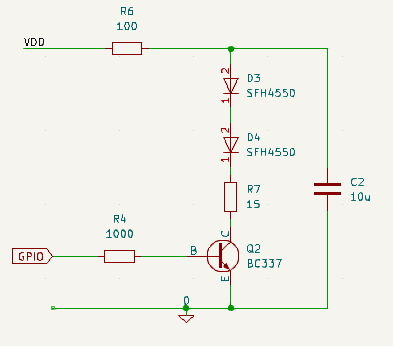
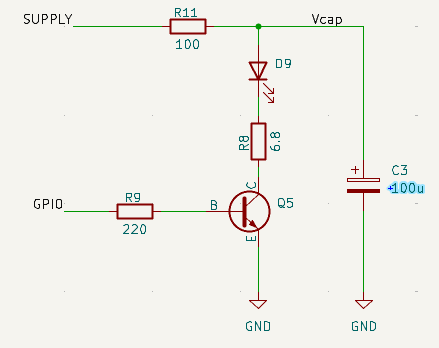
updated the section on the basic current regulator

diff --git a/docs/sensors/basic-constant-current-drive.md b/docs/sensors/basic-constant-current-drive.md
@@ -9,76 +9,114 @@ nav_order: 20
 # Basic Constant Current Drive for Sensor Emitters
 
 ## Conventional drive
-Normally, the micromouse sensors might use an arrangement like this, assuming we want to drive two LEDs at the same current from some supply voltage VDD
+
+In the section on [switched emitter driving](./switched-emitter-drive.md), one of the simplest working options looked like this:
+
 ![conventional emitter drive](../assets/sensors/conventional-drive.png)
+/// caption
+Basic Bipolar Switched Emitter
+///
 
-This might be the kind of configuration you would use in a half-size mouse with two LiPo cells. The LED current is probably a bit low for a classi mouse.
+This configuration, with an IR LED, would work well in a typical classic micromouse with a 5 Volt supply voltage. However, in a half-size mouse there may not be a 5 Volts supply and so the available headroom for the LED supply becomes marginal. So marginal that the use of a visible light LED like the TLCR5800 is probably not possible at more than a fairly low current.
 
-It should be clear that the actual current that will flow through the LEDs will depend upon the voltage at VDD. The storage capacitor can only charge to that voltage so output will vary with VDD. Designers will use a regulated supply for VDD to ensure it remains constant as the battery Voltage decays during a run. It is not uncommon to use a MOSFET or darlington device in place of Q2 so that the deviceacts as a simple switch always completely on or completely off.
+It is likely tempting to connect the LED supply directly to the battery to get a somewhat higher voltage. but that causes another issue. As the robot runs around, the battery voltage will constantly change and with it, the LED output. If the LED output varies, so will the detector reading, regardless of the walls. 
 
-### Constant current
-There are many ways to create a constant current drive so that the current through the LEDs is less dependent upon the value of VDD. Ideally, the current would be independent of VDD but, of course there will be some lower limit below which there will not be enough headroom to fully accommodate the forward voltage drop  of the LEDs. These circuits vary in their complexity and effectiveness. With space at a premium, builders want a simple solution wherever possible.
+What is needed is a way to keep the current through the LED constant even if the supply voltage changes.
+
+## Constant current
+There are many ways to create a constant current drive. Ideally, the current would be completely independent of VDD but, of course there will be some lower limit below which there will not be enough headroom to fully accommodate the forward voltage drop of the LEDs. These circuits vary in their complexity and effectiveness. With space at a premium, builders want a simple solution wherever possible.
 
 ## Simple Solution
-The resistor R7 in the previous circuit limits the current that can flow through the LEDs. It has no other purpose. Suppose, however, we place the current limit resistor on the emitter of the drive transistor. 
+The resistor R8 in the previous circuit limits the current that can flow through the LEDs. It has no other purpose. Suppose, however, we place the current limit resistor on the emitter of the drive transistor instead of between the collector and the LED. 
 
 ![current regulated circuit](../assets/sensors/current-regulated.png)
+/// caption
+Simplest Current Regulation
+///
 
-There are the same number of components and they have the same values but now the circuit behaviour is very different.
+There are the same number of components and they have the same values (Q5 is a BC337-40) but now the circuit behaviour is very different.
 
-As current flows through the LEDs, the voltage at the emitter of Q3 will rise. If it rises enough so that it is within 0.7 Volts or so of the base, the transistor will begin to turn off and the current will reduce. There is, then, negative feedback in the circuit and the current is now controlled only by the emitter resistor, not the supply voltage. 
+As current flows through the LEDs, the voltage at the emitter of Q5 will rise. If it rises enough so that it is within 0.7 Volts or so of the base, the transistor will begin to turn off and the current will reduce. There is, then, negative feedback in the circuit and the current is now controlled only by the emitter resistor, not the supply voltage. 
 
-In this example, suppose the GPIO output is 3.3 Volts. If the emitter of Q3 gets to about 2.6 Volts, the circuit should start to be stable. That corresponds to a current of around 173mA. In practice, some current will flow from GPIO, through the resistor R8 and out f the emitter. Not much current - less than 1 mA depending on the gain of the transistor. That means the base voltage would be more like 2.9 Volts because of the drop across R8 and the emitter would stabilise at about 2.2 Volts. The current through R10 would now be closer to 147 mA. Nearly all of that will have come from the collector of the transistor which means it must have flowed through the LEDs.
+In this example, suppose the GPIO output is 3.3 Volts. If the emitter of Q5 gets to about 2.6 Volts, the circuit should start to be stable. That corresponds to a current of around 2.6/6.8 = 382mA. In practice, some current will flow from GPIO, through the resistor R8 and out of the emitter. Not much current - less than 1 mA depending on the gain of the transistor. So the total emitter current will include the base current and the collector current will be a little less. Not by much though - less than 2% typically.
 
-So what? Well, notice that none of this reasoning has any mention of the supply Voltage. So long as there is enough supply voltage to provide the forward voltage drop of the LEDS, the voltage across the emitter resistor and a volt or so for linear transistor operation, the current will be constant.and independent of the supply voltage. Here, anything above about 6.5 Volts will be enough to ensure correct circuit behaviour. That is a convenient number because it is around the voltage that corresponds to a pair of depleted LiPo cells.
+The high current requirement, if it can be achieved, will need somewhat more than the typical, rule-of-thumb - value 0.7 Volts for $V_{BE}$. Probably more like 0.8V so the voltage across R8 will be around 2.5 Volts and the actual emitter current will be $2.5/6.8 = 360mA$. Combined with the base current and other transistor effects, the actual current achievable through the LED will be a little lower still.
+
+So what? Well, notice that none of this reasoning has any mention of the supply Voltage. So long as there is enough supply voltage to provide the forward voltage drop of the LEDS, the voltage across the emitter resistor and a volt or so for linear transistor operation, the current should be constant and independent of the supply voltage. Here, anything above about 6.5 Volts will be enough to ensure correct circuit behaviour. That is a convenient number because it is around the voltage that corresponds to a pair of depleted LiPo cells.
+
+In summary, leaving at least one volt to ensure the transistor can operate in its linear mode:
+
+$$
+V_{cap} > V_{LED} + I . R_E + V_{CE(sat)} + 1 Volt
+$$
+
+The extra 1 Volt ensures linear operation. Remember that the resistor R11 reduces the average voltage value on the capacitor depending on the pulse duty cycle so $V_{cap}$ is always somewhat less than $V_{supply}$.
+
 
 It should be clear that an attempt to increase the current by reducing the value of the emitter resistor will increase the voltage drop across the LEDs, reducing the available headroom. Even so, it should be possible to get more than 250mA through the LEDs with a 6.5 Volt supply and good pulse shapes. You can double that if you increase the value of the storage capacitor and are happy to accept a pulse that begins to decay rapidly.
 
+Note that, because the transistor is operating in its linear region, it will dissipate a little more power than when operated as a switch. With the example parameters - 328mA for 25us out of every 1000us - the average power dissipation would be around 6mW. Even if the emitter gets stuck on, the protection resistor, R11 keeps everything safely limited.
+
+
+
 ## Simulating the Circuit
-This circuit shows a more complete version for simulation:
 
- ![circuit for simulation](../assets/sensors/current-regulation-simulation.png)
+Running this circuit through the simulator shows that the voltage on the capacitor, $V_{cap}$ still takes just as long to get to a stable value but the LED current pulses stabilise well before that.
 
-- A voltage source driving the base to simulate a GPIO pin left high.
-- Two LEDs are run in series.
-- Overall current is limited by the 100$\Omega$ resistor in the supply line. 
-- Operating current for the emitter pulses will come from the storage capacitor C1.
+ ![Simulation Power Up Behaviour](../assets/sensors/basic-regulation-power-up.png)
+ /// caption
+ Basic Bipolar Regulation
+ ///
 
-## Fault behaviour
-In this state, we can perform an operating point analysis of the worst case current through the LEDs in case of a fault with a freshly charged battery and  the IO pin stuck high. I have reduced the base resistor to allow more current to flow into the transistor in case it has a low gain.
+The pulses stabilise as soon as the capacitor voltage is high enough to provide adequate regulation by the transistor. As little as 4.5 Volts on the capacitor is enough and, at all voltages above that, the pulse shape is the same. Here is one of the stable pulses.
 
-![DC Operating point](../assets/sensors/sensors-current-regulation-operating-point.png)
+![Single 328mA Pulse](../assets/sensors/basic-regulation-single-pulse-328ma.png)
+/// caption
+Single 328mA pulse from Basic Regulator
+///
 
-- The transistor will be hard on and saturated
-- The current through the LEDs will be limited to about 47mA. This is a safe level that will not damage the LEDs though it is probably still not eye-safe for IR LEDs.
-- The transistor emitter will be at about 0.76 Volts
-- $V_{BE}$ is 0.715 Volts
-- The current limit resistor, R3, is dropping 4.7 Volts
-- The GPIO port will need to output 3.9mA. This is well within the capabilities of the port.
-- The SFH4550 LEDs can tolerate 100mA continuous current flow. at which point their individual forward voltage is about 1.5 Volts. R3 could be reduced to perhaps 47 Ohms and stilll maintain safe operation 
+It is clear that there is no droop and the current pulse is nice and constant. The current rises to the same value as in the switched case but is now sustained throughout the pulse as the transistor compensates for any droop in the capacitor voltage.
 
-The simulator output is a little hard to follow because it places so many labels. 
+## Testing Compliance
 
-## Dynamic operation
-Normal operation is for the emitter to be pulsed on for a short period on every control cycle. Suppose we want a 30us pulse 2000 times per second. This is rather more than is normal but we want to design for the more demanding cases. Restoring the proper pulse activity of the IO pin, and setting the battery to a depleted level of only 6.5 Volts, gets us this circuit:
+Compliance is the ability of the circuit to provide a consistent current for a range of input voltages. The power-up data shown above imply that, as long as the supply voltage is greater than 4.5 Volts, regulation will be good. Just to illustrate the point, the simulation can be run again with the supply voltage set to 8.4 Volts, corresponding to a freshly charged 2S LiPo battery.
 
-![Simulating practical pulses](../assets/sensors/current-regulation-pulsed-simulation.png)
+ ![Simulation Power Up Behaviour - High Voltage](../assets/sensors/basic-regulation-higher-supply-voltage.png)
+ /// caption
+ Basic Regulation With Higher Supply Voltage
+ ///
 
-Let's have a look at a few of pulses emitted after the circuit has been operating for a few milliseconds - which is all it takes to reach steady state.
+Exactly as before, the pulses stabilise quickly at the same level and remain unaffected by the supply voltage.
 
-![Output Pulses at 6.5 Volts](../assets/sensors/current-regulation-results-6-volts.png)
+## Sources of error
 
-We get clean, regular pulses with a peak currrent of 157mA through both LEDs.
+This is **not** a *precision* current source. While it can compensate very well for variations in supply voltage, it is subject to some change in the $V_{BE}$ behaviour with temperature and it will be affected by the actual voltage available from the GPIO pin.
 
-Now see the difference when the supply voltage is 8.4 Volts from a fresh battery
+In fact, the LED current is proportional to the GPIO voltage. If, for example, the GPIO voltage is only 3 Volts, the voltage across R8 will be correspondingly lower and the LED current will be reduced. 
 
-![utput Pulses at 8.4 Volts](../assets/sensors/current-regulation-results-8-volts.png)
+However, during normal operation of the processor you can be quite confident that the GPIO voltage will be stable enough for the purposes of this circuit. If it does change, that would be a sign that there may be some other problem in the rest of the robot circuits.
 
-The current pulses are identical. The LEDs will be the same brightness across the range of voltages available from the battery.
+Also, remember that the calculations will refer to typical devices and individual parts are subject to the normal tolerances.
 
-The magnitude of the emitter pulse current will be affected by the transistor gain but transistors shoudl in any case be chosen for a narrow range of gains. In this example, you might selct a BC337-40 rather than any old BC337 from the parts bit so that the gain is between 250 and 630 (according to the data sheet) rather than the full available range of 100 to 630. For that more narrow range of transistor gains, you might expect the emitter current to range from 148mA to 160mA from one transistor to another.
+There are some modest sources of error or inaccuracy but overall, for its intended purpose, this circuit is a great improvement over a simple switched emitter. It makes for a simple solution to getting consistent and stable current pulses even with the use of unregulated supplies. In a micromouse robot, where the walls themselves can vary in reflectivity by several percent, it probably needs little or no improvement.
 
-Peak current into the base might be a few milliAmps for the very short time needed to charge any base capacitance but will typically be a few hundred microAmps during the pulse.
+When choosing a transistor for Q5, several types will do the job. Aim for something that can pass several hundred milliamps while still having a current gain of at least 100. The BC337-40 has proven reliable and is cheap and commonplace.
 
-## Other sources of error
-The entire scheme depends upon the GPIO output voltage being stable with a known value. The LED current is proportional to the GPIO voltage. That is, a 5% reduction in that voltage will cause about a  5% reduction in the LED current. Certainly, the load on the port will pull the voltage down a little. The assumption is that, with the entire system working in its steady state, any deviation of the GPIO voltage from its nominal 3.3 Volts will remain pretty steady since the processor supply is itself stabilised.
+## Other LED types
+
+All the calculations so far have been for  an IR LED like the SFH4550. If you wanted to use a high intensity visible type like TLCR5800, the only change will be the minimum supply voltage needed  ensure correct operation at the intended current. With the current still at 328mA, the TLCR5800 will need around 5.75 Volts on the capacitor before the pulses stabilise. That is still, just, possible with a supply voltage of 6.5 Volts but no less. That 6.5 Volts is the lowest that you should allow a 2S LiPo battery to operate at - certainly for more than a few seconds.
+
+Recall that most use cases in micromouse robots do not require LED currents to be that high unless your detector is a photodiode and you need to reduce the load resistance to better match the ADC input.
+
+## Possible Improvements
+
+Now that the LED current pulses are better regulated, it might be worth revisiting the reservoir capacitor calculation. Large value Tantalum capacitors are expensive and take up space so you might consider reducing the value. In this circuit, and still using 328mA pulses through a SFH4550 LED, the capacitor C3 can be reduced to as little as 10uF and still give good current pulses. The ripple on the $V_{cap}$ voltage will be much greater and the circuit should still operate at the lower limit of the intended supply range. Because the transistor is regulating the current through the LED, the actual value if $V_{cap}$ is less critical. With a visible light LED, the pulses will begin to droop fairly quickly. As already mentioned, consider reducing the current to manage that.
+
+Take care though before using MLCC capacitors instead of Tantalums. Typical MLCC capacitors do not give anywhere near their rated capacitance once they have a few volts of DC bias across them. Also, the smaller the package, the worse the effect. This is not the place to go into detail but, if you *must* use MLCC types, make them at least four times larger than you calculate and avoid small packages like 0603 or 0402.
+
+
+
+## Other Current Regulators
+
+If you feel the need for more reliable or accurate solutions, have a look atthe [Improved Current Regulation]() page.
+

diff --git a/docs/sensors/improved-current-regulation.md b/docs/sensors/improved-current-regulation.md
@@ -1,0 +1,24 @@
+---
+# 1. FRONT MATTER (REQUIRED)
+# The MkDocs title is automatically used for the navigation and the page heading.
+# title: Template
+subtitle: 
+description:
+icon:
+status:
+---
+
+# Placeholder
+
+This page intentionally blank
+
+Sections to illustrate the TOC feature
+
+## Section 1
+Brick quiz whangs jumpy veldt fox. Bright vixens jump; dozy fowl quack. Quick wafting zephyrs vex bold Jim. Quick zephyrs blow, vexing daft Jim.
+
+### Sub 1.1
+Brick quiz whangs jumpy veldt fox. Bright vixens jump; dozy fowl quack. Quick wafting zephyrs vex bold Jim. Quick zephyrs blow, vexing daft Jim.
+
+
+
